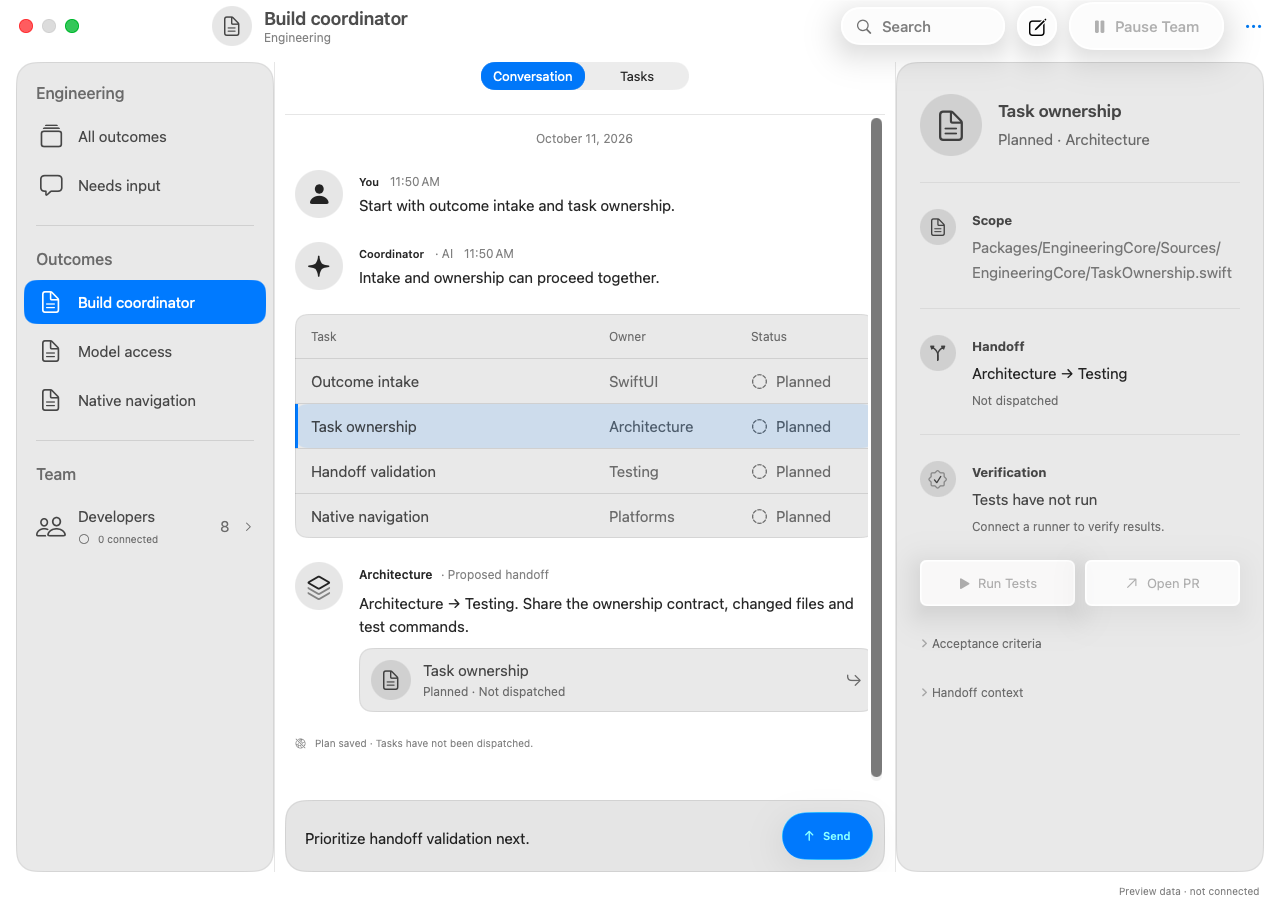
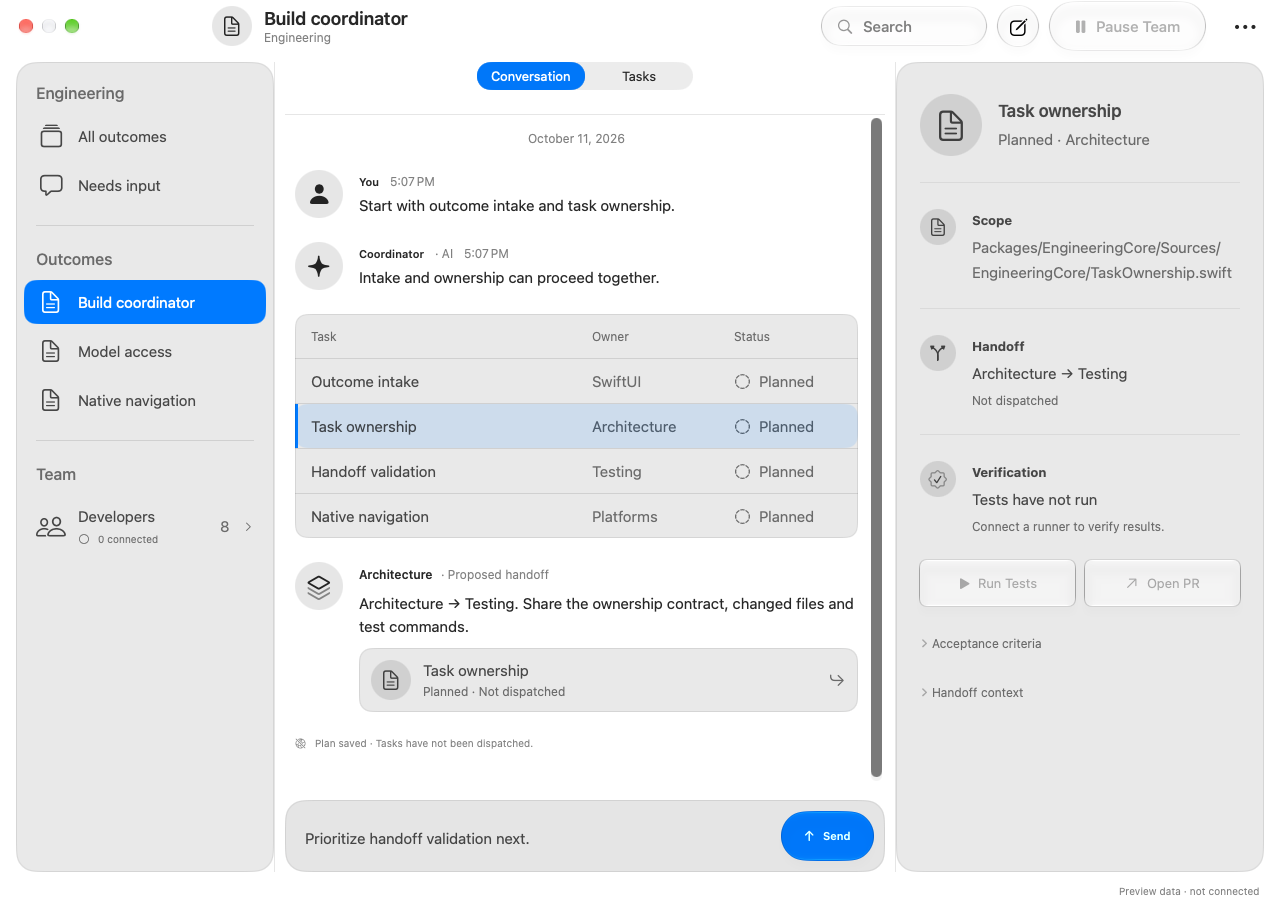
Record SDK 27 review evidence and native captures [skip ci]

diff --git a/strategy/current-state.md b/strategy/current-state.md
@@ -8,13 +8,14 @@ Recorded 2026-10-11. This is a checkpoint, not a production-readiness claim.
 - Durable per-outcome composer drafts, backward-compatible workspace decoding, ordered saves and send/retry behavior are implemented. Fourteen portable core tests passed at `946807d`; actual store regression checks passed in [preview run 38156253905](https://github.com/kmshdev/foundation-models-utilities/actions/runs/38156253905).
 - Both production targets built again at `946807d`. The actual Mac app launched and its [capture](../Documentation/NativeBuild/macos-27.png) was retained. That run was subsequently canceled during the iOS simulator diagnostic, so it is not an overall passing run.
 - SDK availability is resolved. Normal validation builds both apps; native launch capture is an optional bounded diagnostic.
+- At `7b54a8d`, follow-up planning queues automatically, coalesces new context and rejects stale results. Task reopening, legacy conversation visibility, selected-answer accessibility and new-outcome sheet protection were corrected. [Both production builds and 14 core tests](https://github.com/kmshdev/foundation-models-utilities/actions/runs/38158254209), plus [SDK 27 preview/store checks](https://github.com/kmshdev/foundation-models-utilities/actions/runs/38158254245), passed. Updated native preview captures are in `Documentation/Previews`.
 
 ## Remaining product work
 
 1. Connect supported personal ChatGPT subscription access through a documented integration. Preserve separation between authentication and platform build hosts; do not substitute paid API access or an invented authentication bridge.
 2. Connect real GitHub/Linear delivery and developer execution, including observed presence, exclusive task ownership, durable context handoff and verified test/PR receipts. Keep unavailable actions and disconnected states honest until then.
 3. Complete end-to-end native interactions, accessibility and iOS runtime validation. The iOS 27 simulator booted but its install/launch diagnostic stalled; a successful iOS build does not prove runtime behavior.
-4. Verify the accepted appearance at relevant window sizes and accessibility settings. The latest sidebar label fix needs a new visual capture; the retained Mac capture predates it.
+4. Complete accessibility-setting and device coverage. Updated SDK 27 native previews cover normal/narrow windows, empty workspace, light mode and increased contrast; the narrow capture confirms the sidebar connection label remains readable. Static captures do not prove assistive-technology interaction.
 5. Perform signing, device distribution and operational validation when those enter the authorized delivery scope.
 
 These items are future implementation work; installing development roles, skills and strategy does not itself complete them. Use the runbook matching the next user outcome, not the entire backlog at once.

diff --git a/Documentation/Previews/README.md b/Documentation/Previews/README.md
@@ -1,8 +1,8 @@
 # Native SwiftUI screen captures
 
-Captured from the actual SwiftUI views at `bd1afd8`, with isolated preview data and services disabled. These are foreground native windows, not generated mockups. Reduce Transparency was off. Normal captures use regular legibility; the accessibility capture uses an increased-contrast NSAppearance and bold legibility. Production inherits the user's display settings.
+Captured from the actual SwiftUI views at `7b54a8d` using Xcode 27 / Swift 6.4, with isolated preview data and services disabled. These are foreground native windows, not generated mockups. Reduce Transparency was off. Normal captures use regular legibility; the accessibility capture uses an increased-contrast NSAppearance and bold legibility. Production inherits the user's display settings.
 
-[Native capture, scene/view typechecks and store regression checks](https://github.com/kmshdev/foundation-models-utilities/actions/runs/38137011423). The isolated host uses installed SDK 26 and a disabled model service. It does not establish a successful production Swift 6.4 / SDK 27 build. [Core tests and required-toolchain check](https://github.com/kmshdev/foundation-models-utilities/actions/runs/38137011408). See [design QA](../../design-qa.md) and the [SwiftUI review](../Design/SwiftUI-review.md) for exact scope and blockers.
+[Native capture, SDK 27 scene/view typechecks and store regression checks](https://github.com/kmshdev/foundation-models-utilities/actions/runs/38158254245) passed. The isolated host uses a disabled model service; deterministic planner checks use an injected provider. [Both full production builds and 14 core tests](https://github.com/kmshdev/foundation-models-utilities/actions/runs/38158254209) passed separately. Neither result establishes live service integration, iOS runtime interaction or signed distribution. See [design QA](../../design-qa.md) and the [SwiftUI review](../Design/SwiftUI-review.md) for exact scope and blockers.
 
 ## Selected outcome and task — 1280 × 910 pixels
 

diff --git a/design-qa.md b/design-qa.md
@@ -23,6 +23,8 @@ The native preview host executes state regression checks against the real `Studi
 
 The preview pipeline now requires Xcode 27 / Swift 6.4 and typechecks both app scene branches and shared views against SDK 27. The screenshot host replaces FoundationPlanner with a disabled service. Full production builds compile the actual model service separately. Earlier stored captures retain their original SDK 26 provenance.
 
+At `7b54a8d`, [native builds and core tests](https://github.com/kmshdev/foundation-models-utilities/actions/runs/38158254209) and [SDK 27 preview/store checks](https://github.com/kmshdev/foundation-models-utilities/actions/runs/38158254245) passed. The checked-in captures now come from that SDK 27 run. Automatic planning regression checks verify latest-context coalescing, obsolete-result rejection, queue serialization, cancellation, error recovery and unanswered-question gating. Narrow-window connection text remains legible. Compact re-selection, sheet dismissal protection and VoiceOver choice traits have source/build validation; direct native interaction remains outstanding.
+
 ## Remaining acceptance work
 
 - Target-device interaction and model execution checks; the full SDK 27 targets and actual model service now compile.

diff --git a/Documentation/Design/SwiftUI-review.md b/Documentation/Design/SwiftUI-review.md
@@ -56,6 +56,8 @@ The original review's decisions on semantic typography, native materials, purpos
 
 Additional Apple references: [interactive dismissal](https://developer.apple.com/documentation/swiftui/view/interactivedismissdisabled(_:)) and [selected accessibility trait](https://developer.apple.com/documentation/swiftui/accessibilitytraits/isselected).
 
+Validated at `7b54a8d`: [both production builds and 14 core tests passed](https://github.com/kmshdev/foundation-models-utilities/actions/runs/38158254209); [SDK 27 preview compilation, store regression checks and five native captures passed](https://github.com/kmshdev/foundation-models-utilities/actions/runs/38158254245). The planning checks cover late-result rejection, latest-context coalescing, serialized calls, independent outcomes, cancellation unwind, provider failure recovery and question gating. The narrow capture confirms the connection label is no longer truncated. Direct VoiceOver and iPhone navigation interaction remain unverified.
+
 Before a production claim:
 
 1. Complete signing/distribution and native interaction coverage. Both full SDK 27 targets, including the actual model service and utilities package, now build.
